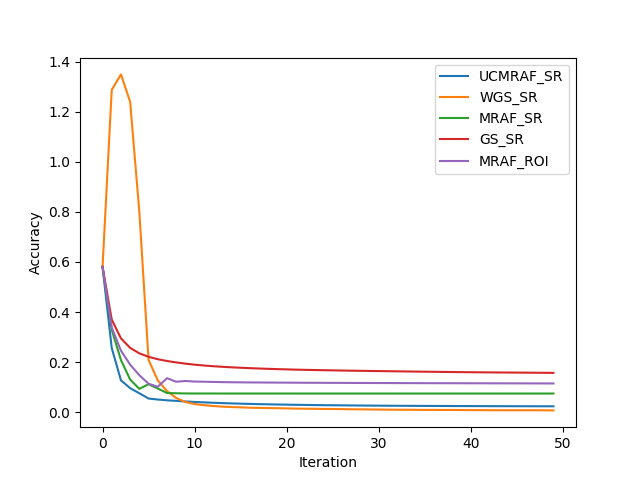
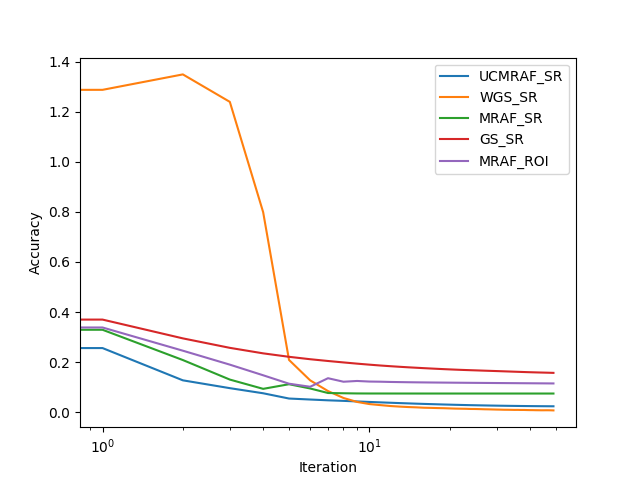
Log plot figures

diff --git a/CUDA Implementation/Data/show_data.py b/CUDA Implementation/Data/show_data.py
@@ -66,7 +66,11 @@ def main():
             figU.plot(data[i].getData(0),label=data[i].Name())
             figA.plot(data[i].getData(1),label=data[i].Name())
             figE.plot(data[i].getData(2),label=data[i].Name())
-            
+        
+    figU.set_xscale("log")
+    figA.set_xscale("log")
+    figE.set_xscale("log")
+    
     figU.legend()
     figA.legend()
     figE.legend()
